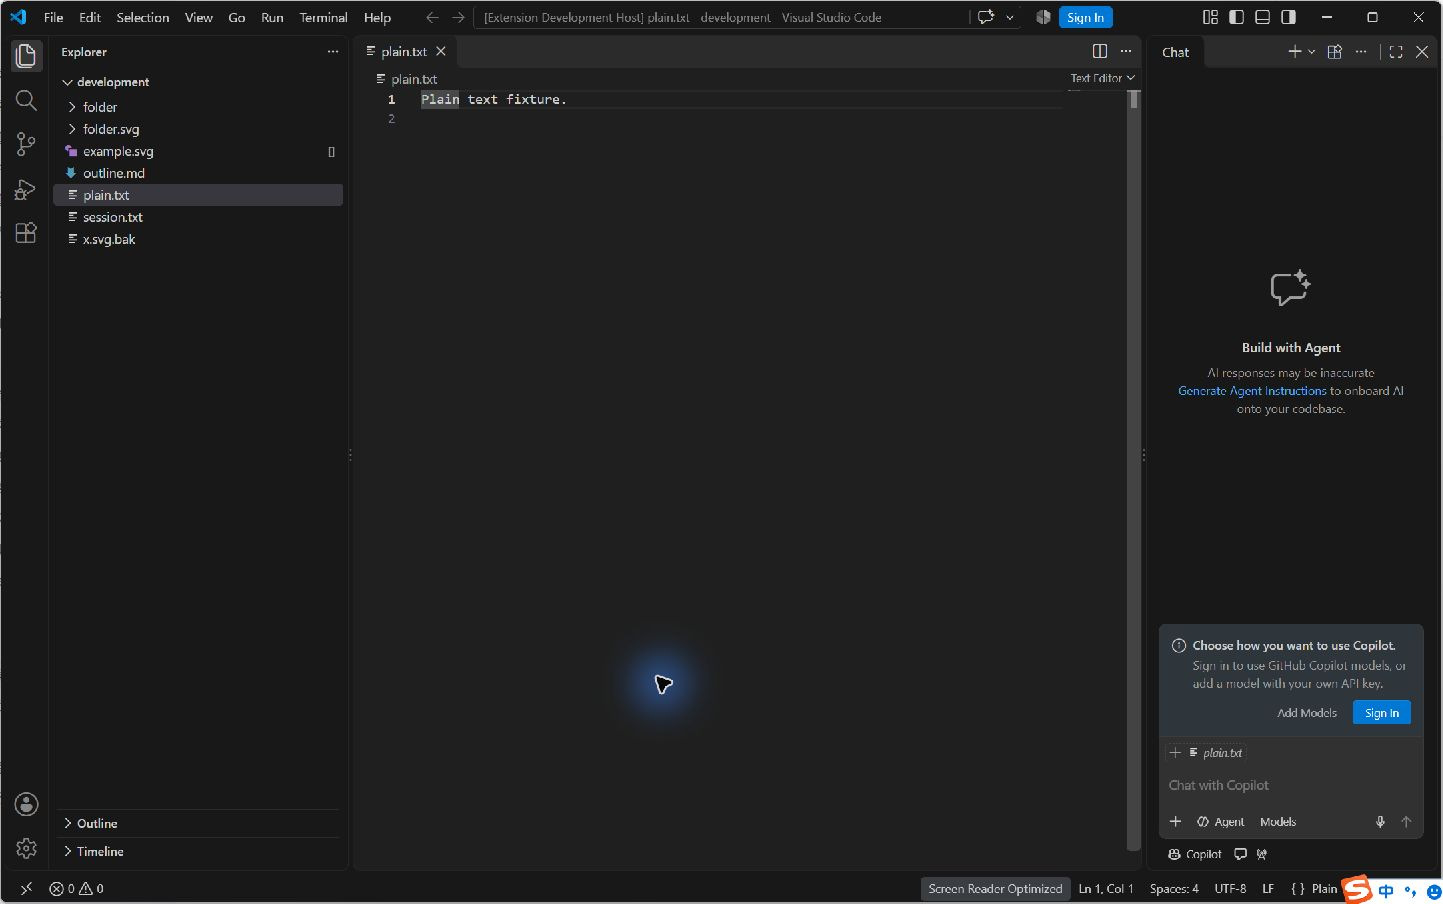
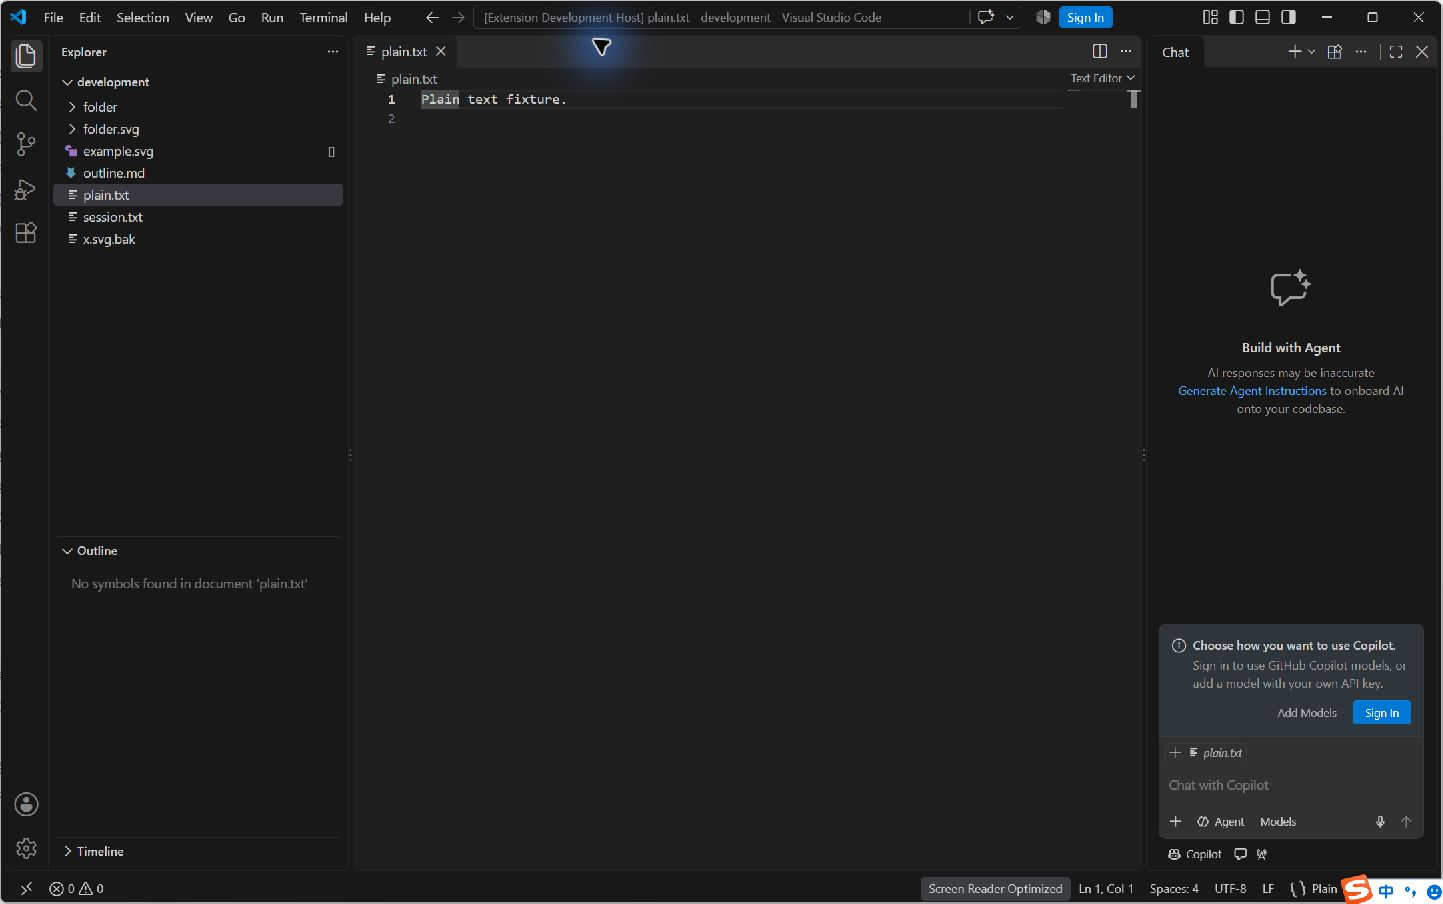
docs(vscode): record host navigation, recovery and reuse decisions

diff --git a/doc/README.md b/doc/README.md
@@ -1,3 +1,25 @@
+# SVG 编辑器 Phase 2 课程报告
+
+## VS Code 扩展
+
+在仓库根目录使用 Node 24 运行 `npm ci`，用 VS Code 打开仓库，选择 **Phase 2: SVG Extension** 后按 F5。启动任务构建 CommonJS 扩展并把示例复制到 `artifacts/ui/development`。Explorer 中打开 `plain.txt` 即可看见同级 `example.svg` 的徽标。选择 SVG，展开 Explorer 下方的 Outline，点击 `rect#start`。扩展清单将 SVG 的默认编辑器设为文本编辑器，已有的用户或工作区关联可以覆盖此默认值。图像预览仍可从编辑器选择菜单打开。
+
+在终端运行 `npm run test:vscode:host` 可启动 1.147.0 的 Electron 宿主。已有该版本时可将环境变量 `VSCODE_EXECUTABLE_PATH` 设为 Code 可执行文件的绝对路径。纯解析用例通过 `npx vitest run test/unit/svg-outline.test.ts` 运行。
+
+![选中普通文本时，只有 example.svg 显示徽标](../docs/images/p2-vscode-badge.png)
+
+![原生 Outline 选中 rect#start，状态栏显示第 3 行第 5 列](../docs/images/p2-vscode-outline.png)
+
+**更新与恢复。** 在同一开发宿主把 `start` 改为 `ready`，在矩形前插入一行，文件标签显示未保存，点击新符号定位第 4 行。删去根结束标签的 `>` 后，大纲显示没有符号。补回后完整树恢复，再点击矩形仍定位第 4 行。窗口截图保留了编辑器、树和状态栏。[未保存编辑](../docs/images/p2-vscode-edited.jpg) · [残缺 XML](../docs/images/p2-vscode-incomplete.jpg) · [恢复后导航](../docs/images/p2-vscode-recovered.jpg)
+
+**注册与显示。** VS Code 管理工作区、文本缓冲区、Explorer、Outline 和编辑器导航。扩展在 `activate` 中注册两个 provider，并将注册句柄和文件监听器加入 `subscriptions`。Explorer 请求 URI 的装饰时，`SvgFileDecorationProvider` 对小写后缀调用宿主文件系统的 stat，仅向普通文件返回带 `[]` 的 FileDecoration。创建与删除事件通知宿主重新查询。经典 Decorator 持有同接口的 Component 并向它转发调用；这里 provider 提供额外显示数据，由 Explorer 将它与名称、图标组合，文件身份、内容与目录树不变。
+
+**大纲适配。** Outline 需要 DocumentSymbol 数组；`SvgSymbolProvider` 充当 Adapter，将 `SvgOutline` 的 XML 节点和 UTF-16 偏移转换成嵌套符号、全元素范围和开标签选区。宿主按当前缓冲区版本发起请求，扩展同步读取 getText()。每次解析独立，取消的请求返回空列表。残缺 XML 丢弃整棵临时树，下一次编辑可直接恢复。
+
+**Phase 1 复用。** 两阶段复用 saxes 和事件栈遍历。CLI 解码器需要尺寸、图形白名单、唯一 id 和可提交的领域文档，会给缺 id 的图形分配名字；语义树也没有源码偏移。大纲直接记录源缓冲区的标签，因而能显示无 id 的 `text` 和 CLI 子集外的 `path`，也支持未保存的文本。纯测试用带 CRLF、表情、注释、CDATA 和引号内 `>` 的 XML 核对原始字符切片。
+
[1 lines of base64/hex data omitted]
+
 # SVG 编辑器 Phase 1 课程报告
 
 本项目使用 TypeScript 实现命令行 SVG 编辑器，支持 19 个命令、6 类图形和 36 个合法的 `set` 类型与属性组合。设计以课程要求和已确认的需求决策为依据，采用面向对象模型，将命令行交互、编辑协调、图形行为和文件读写分开。
